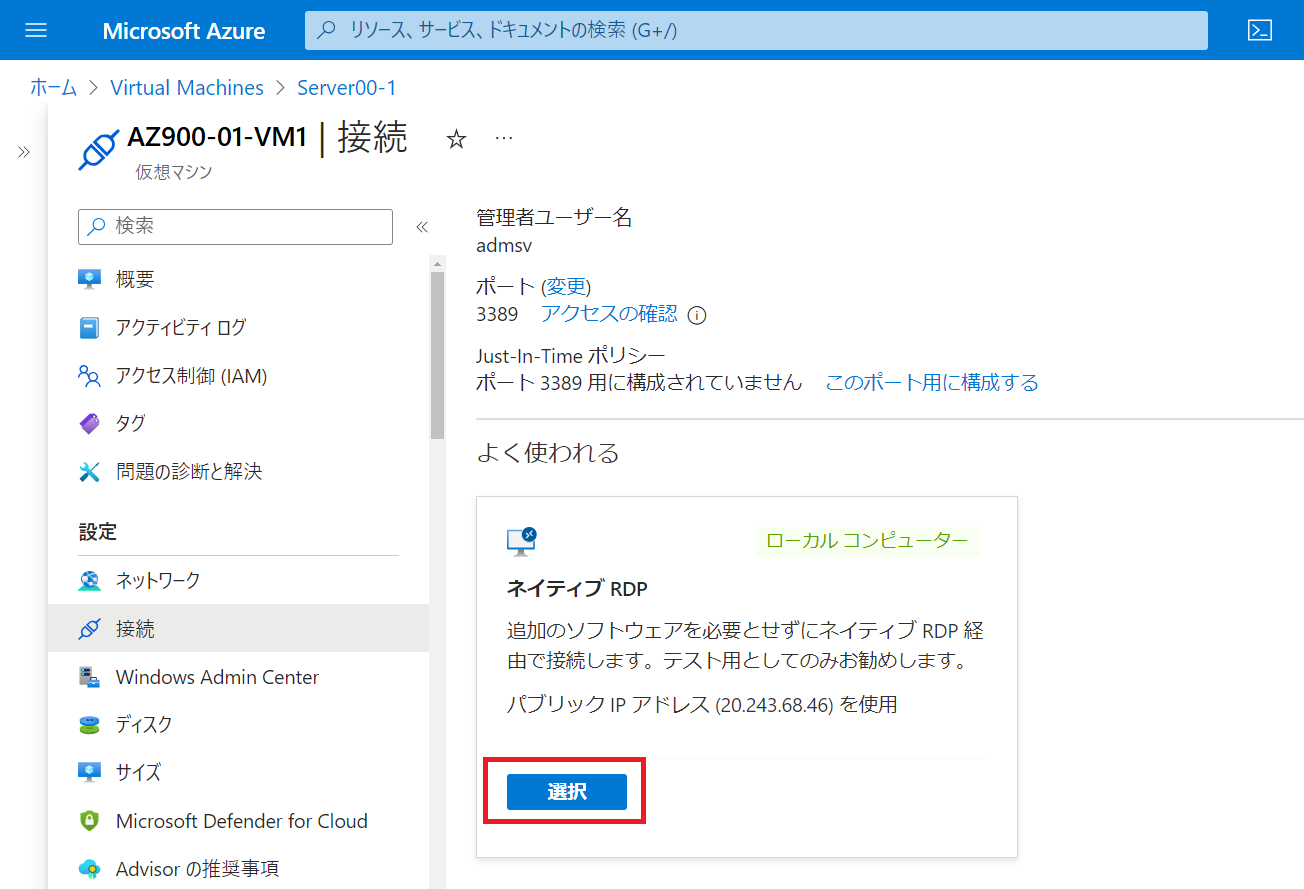
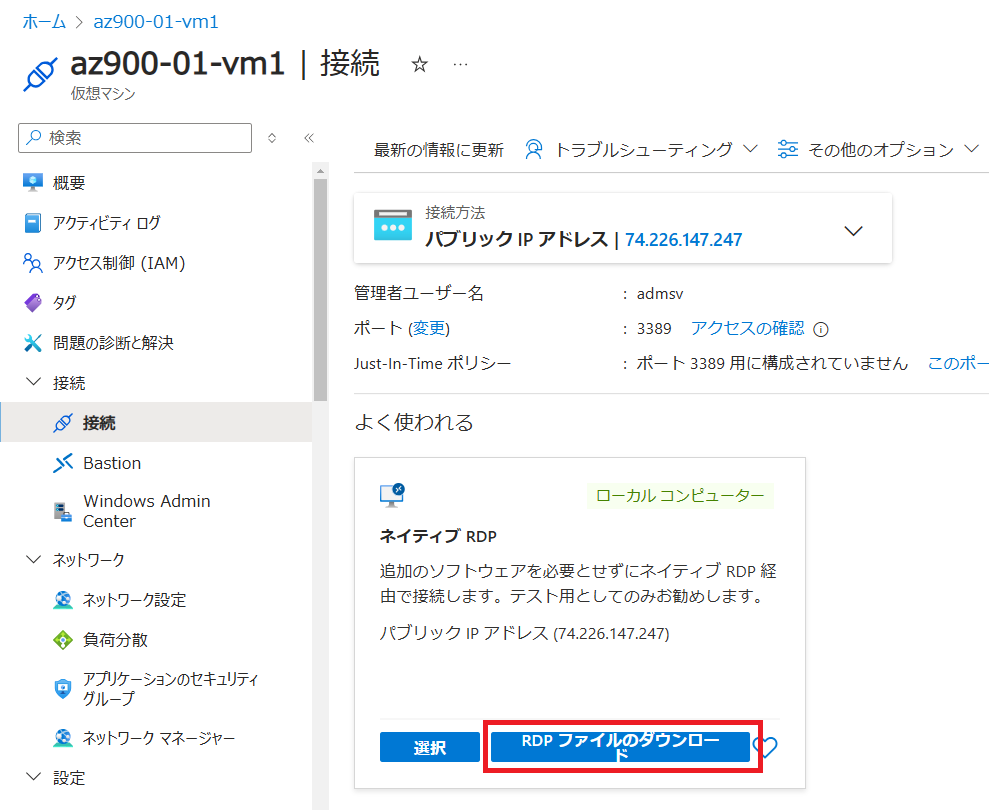
update

diff --git a/LabManual/01-Create a virtual machine.md b/LabManual/01-Create a virtual machine.md
@@ -18,14 +18,14 @@ wts:
 
     | 設定 | 値 |
     |  -- | -- |
-    | サブスクリプション | **従量課金** |
+    | サブスクリプション | **Microsoft Azure スポンサー プラン** |
     | リソース グループ | **アカウントのリソースグループをプルダウンから選択(新規作成はできません)** |
     | 仮想マシン名 | **az900-01-vm1** |
-    | 地域 | **(Asia Pacific) 東日本 もしくは Japan East** |
+    | 地域 | **(Asia Pacific) Japan East** |
     | 可用性オプション | **インフラストラクチャ冗長は必要ありません** |
     | イメージ | **Windows Server 2022 Datacenter Azure Edition - x64 Gen2** |
     | サイズ | **Standard DS1 v2** |
-    | ユーザー名 | **Student** |
+    | ユーザー名 | **admsv** |
     | パスワード | **Pa55w.rd1234** |
     | パブリック受信ポート | **選択したポートを許可する** |
     | 受信ポートの選択 | **RDP (3389)** と **HTTP (80)**|
@@ -34,17 +34,17 @@ wts:
 
 5.  **「ネットワーク」**  タブでは、 **「受信ポートの選択」** セクションで **HTTP (80) と RDP (3389)** が選択されていることを確認します。
 
-    **※仮想ネットワーク、サブネット、パブリックIP、その他項目は規定値のままで構いません。**
+    **※仮想ネットワーク、サブネット、パブリックIP、その他項目は既定値のままで構いません。**
 
 6.  **「次：管理 >」**  をクリックし、既定値から変更せず **「次：監視 >」** をクリックします。
 
 7.    **「監視」** セクションで、 **「ブート診断」** の値を、 **「無効化」** にします。
 
-8. 残りの値は既定値はそのままにして、ページの下部にある **「確認および作成」** をクリックします。
+8. 残りの値は既定値をそのまま使用し、ページの下部にある **「確認および作成」** をクリックします。
 
 9. 「検証に成功しました」というメッセージが表示されたら、 **「作成」** ボタンをクリックします。仮想マシンをデプロイするには、1～5分かかる場合があります。
 
-10. デプロイ ページ上と **「通知」** 領域 (トップ メニュー バーのベル アイコン) を通して更新を受信します。
+10. デプロイ ページと **「通知」** 領域 (トップ メニュー バーのベル アイコン) を通して更新内容を確認します。
 
 # タスク 2: 仮想マシンに接続する
 
@@ -54,22 +54,21 @@ wts:
 
     **注**: 「デプロイ」 ページにて「**デプロイが完了しました**」表示後は、 「**リソースに移動**」 リンクを使用することもできます。 
 
-2. 仮想マシンの **「概要」** ブレードで、**「接続」** ボタンをクリックします。
+2. 仮想マシンの **「概要」** ブレードで、 **「接続」** のドロップダウンから **「接続」** ボタンをクリックします。
 
     ![「接続」 ボタンが強調表示された仮想マシンのプロパティのスクリーンショット。](./images/AZ900_Lab1_16.png)
 
     **注**: 次の手順では、Windows コンピューターから VM に接続する方法を説明します。Mac では、Mac App Store にある Remote Desktop Client などの RDP クライアントが必要です。また、Linux コンピューターでは、オープンソースの RDP クライアント ソフトウェアを使用できます。
 
-3. 「**ネイティブRDP**」の項目で「**選択**」のボタンをクリックし、表示されたメニューから「**RDP ファイルのダウンロード**」をクリックしてください。
+3. 「**ネイティブRDP**」の項目で「**RDP ファイルのダウンロード**」をクリックしてRDPファイルをダウンロードします。
 
     ![AZ900_Lab1_17](./images/AZ900_Lab1_17_02.png)
-    ![AZ900_Lab1_17](./images/AZ900_Lab1_17_03.png)
-
+    
 4. ダウンロードした RDP ファイルを**開き**、プロンプトが表示されたら 「**接続**」 をクリックします。 
 
     ![「接続」 ボタンが強調表示された仮想マシンのプロパティのスクリーンショット。](./images/0102.png)
 
-5. **「Windows セキュリティ」** ウィンドウで、仮想マシンの作成時に設定した管理者ユーザ名 **「Student」** とパスワード **「 Pa55w.rd1234」**  を使用してサインインします。 
+5. **「Windows セキュリティ」** ウィンドウで、仮想マシンの作成時に設定した管理者ユーザ名 **「admsv」** とパスワード **「 Pa55w.rd1234」**  を使用してサインインします。 
 
 6. サインイン プロセス中に証明書の警告が表示されることがあります。 **「はい」** をクリックして仮想マシン に接続します。正常に接続されるはずです。
 

diff --git a/LabManual/02-Create a Web App.md b/LabManual/02-Create a Web App.md
@@ -35,20 +35,21 @@ lab:
 
      | 設定               | 値                                                           |
      | ------------------ | ------------------------------------------------------------ |
-     | サブスクリプション | **従量課金**                                                 |
+     | サブスクリプション | **Microsoft Azure スポンサー プラン**                        |
      | リソースグループ   | **アカウントのリソースグループをプルダウンから選択(新規作成はできません)** |
 
      
      
 5.  **「インスタンスの詳細」** を設定します。
 
-    | 設定                     | 値               |
-    | ------------------------ | ---------------- |
-    | 名前                     | **eduwebappsXX** |
-    | 公開                     | **コード**       |
-    | ランタイムスタック       | **.NET 8(LTS)**  |
-    | オペレーティングシステム | **Windows**      |
-    | 地域                     | **East US**      |
+    | 設定                                                 | 値                          |
+    | ---------------------------------------------------- | --------------------------- |
+    | 名前                                                 | **eduwebappsXX**            |
+    | 一意の既定のホスト名（プレビュー）をお試しください。 | **オフ** （ボタンを非活性） |
+    | 公開                                                 | **コード**                  |
+    | ランタイムスタック                                   | **.NET 8(LTS)**             |
+    | オペレーティングシステム                             | **Windows**                 |
+    | 地域                                                 | **East US**                 |
     
      > 注：名前のXXは講師から指示がある演習番号を使用してください (例 : 演習番号01の人 ⇒ eduwebapps01)。 
      >

diff --git a/LabManual/03-Create a virtual network_JE.md b/LabManual/03-Create a virtual network_JE.md
@@ -21,7 +21,7 @@ wts:
 
     | 設定 | 値 |
     | --- | --- |
-    | サブスクリプション | **従量課金** |
+    | サブスクリプション | **Microsoft Azure スポンサー プラン** |
     | リソース グループ | **アカウントのリソースグループをプルダウンから選択(新規作成はできません)** |
     | 名前 | **vnet1** |
     | 地域 | **(Asia Pacific) Japan East もしくは 東日本** |
@@ -39,7 +39,7 @@ wts:
 
    | 設定 | 値 |
    | --- | --- |
-   | サブスクリプション | **従量課金** |
+   | サブスクリプション | **Microsoft Azure スポンサー プラン** |
    | リソース グループ | **アカウントのリソースグループをプルダウンから選択(新規作成はできません)** |
    | 仮想マシン名 | **az900-04-vm1** |
    | 地域 | **(Asia Pacific) Japan East もしくは 東日本** |
@@ -61,7 +61,7 @@ wts:
 
     | 設定                 | 値                                                           |
     | -------------------- | ------------------------------------------------------------ |
-    | サブスクリプション   | **従量課金**                                                 |
+    | サブスクリプション   | **Microsoft Azure スポンサー プラン**                        |
     | リソース グループ    | **アカウントのリソースグループをプルダウンから選択(新規作成はできません)** |
     | 仮想マシン名         | **az900-04-vm2**                                             |
     | 地域                 | **(Asia Pacific) Japan East もしくは 東日本**                |

diff --git a/LabManual/07-Secure network traffic.md b/LabManual/07-Secure network traffic.md
@@ -21,7 +21,7 @@ wts:
 
     | 設定 | 値 |
     |  -- | -- |
-    | サブスクリプション | **従量課金** |
+    | サブスクリプション | **Microsoft Azure スポンサー プラン** |
     | リソース グループ | **アカウントのリソースグループをプルダウンから選択(新規作成はできません)** |
     | 仮想マシン名 | **az900-07-vm1** |
     | 地域 | **(Asia Pacific) Japan East** |
@@ -71,7 +71,7 @@ wts:
 
     | 設定 | 値 |
     | -- | -- |
-    | サブスクリプション | **従量課金** |
+    | サブスクリプション | **Microsoft Azure スポンサー プラン** |
     | リソース グループ | **アカウントのリソースグループをプルダウンから選択(新規作成はできません)** |
     | 名前 | **az900-07-nsg1** |
     | 地域 | **Japan East** |

diff --git a/README.md b/README.md
@@ -1,7 +1,7 @@
 # Microsoft Azure 基礎(AZ-900T00) ラボマニュアル
 ## はじめに
 
-本マニュアルはCTCテクノロジー主催「[Microsoft Azure 基礎(AZ-900T00)](https://www.school.ctc-g.co.jp/course/P736.html)」のラボマニュアルになります。
+本マニュアルはCTCテクノロジー主催「[Microsoft Azure 基礎(AZ-900T00)](https://www.school.ctc-g.co.jp/course/P736.html)」のラボマニュアルになります。2日間の研修において使用します。
 
 
 

diff --git a/LabManual/04-Create Blob storage.md b/LabManual/04-Create Blob storage.md
@@ -21,7 +21,7 @@ wts:
 
     | 設定 | 値 |
     | --- | --- |
-    | サブスクリプション | **従量課金** |
+    | サブスクリプション | **Microsoft Azure スポンサー プラン** |
     | リソース グループ | **アカウントのリソースグループをプルダウンから選択(新規作成はできません)** |
     | ストレージ アカウント名 | **storageaccountxxxx** |
     | 地域 | **(US) East USもしくは米国東部** |

diff --git a/LabManual/06-Option-Implement Azure Functions.md b/LabManual/06-Option-Implement Azure Functions.md
@@ -23,7 +23,7 @@ wts:
 
     | 設定 | 値 |
     | -- | --|
-    | サブスクリプション | **従量課金** |
+    | サブスクリプション | **Microsoft Azure スポンサー プラン** |
     | リソース グループ | **アカウントのリソースグループをプルダウンから選択(新規作成はできません)** |
     | 関数アプリ名 | **function-xxxx** |
     | ランタイム スタック | **Python** |

diff --git a/LabManual/05-Implement the Azure IoT Hub.md b/LabManual/05-Implement the Azure IoT Hub.md
@@ -21,7 +21,7 @@ wts:
 
     | 設定 | 値 |
     |--|--|
-    | サブスクリプション | **従量課金** |
+    | サブスクリプション | **Microsoft Azure スポンサー プラン** |
     | リソース グループ | **アカウントのリソースグループをプルダウンから選択(新規作成はできません)** |
     | IoT Hub 名 | **my-hub-groupxxxx** |
     | 領域 | **East USもしくは米国東部** |
